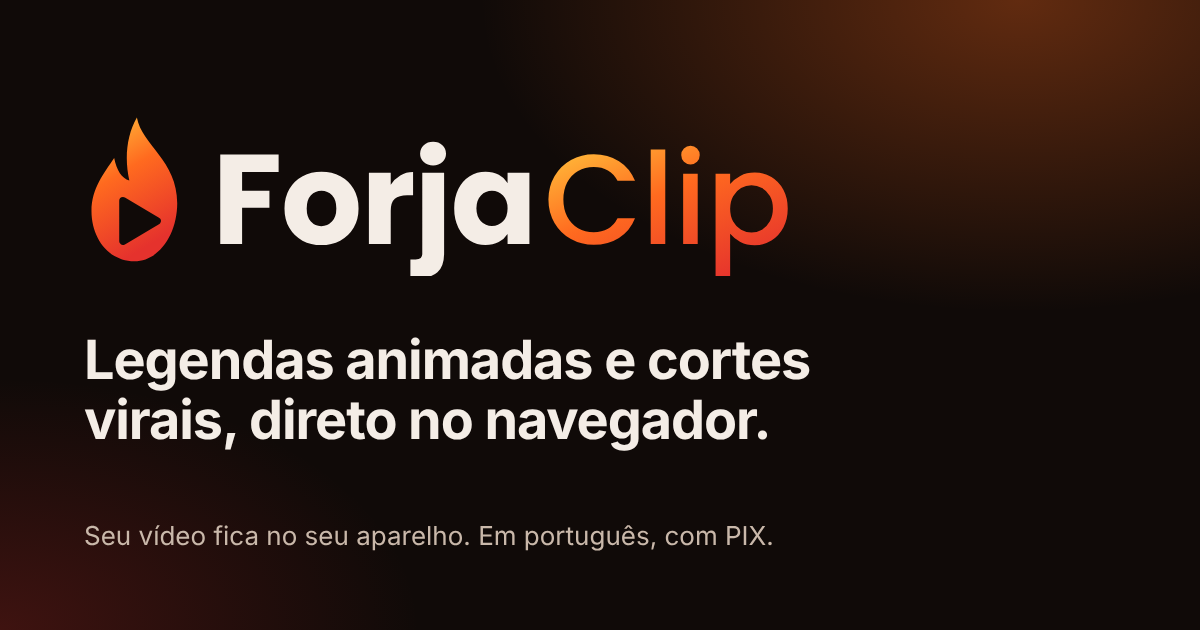
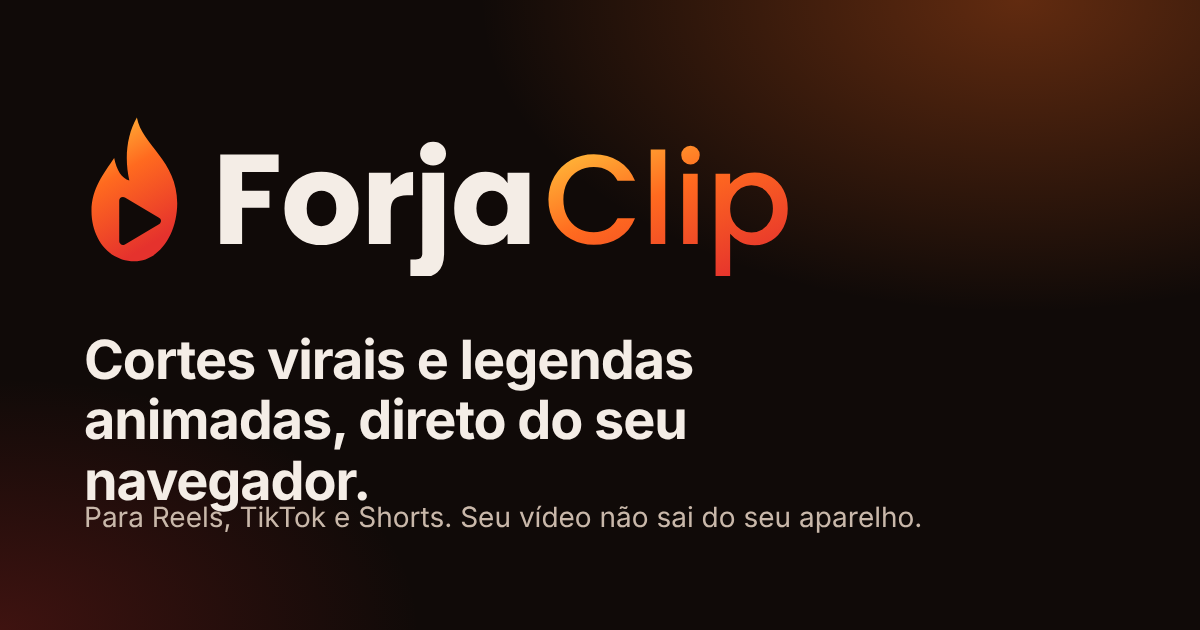
Copy: nova chamada principal e imagem de compartilhamento sem a linha de PIX
Claude-Session: https://claude.ai/code/session_01HcoWimMTnP3ArgryEL197H

Changed region(s): [[0.0617, 0.5429, 0.7708, 0.8746]]

diff --git a/index.html b/index.html
@@ -7,20 +7,20 @@
 <meta name="apple-mobile-web-app-capable" content="yes"><meta name="mobile-web-app-capable" content="yes">
 <meta name="apple-mobile-web-app-title" content="ForjaClip"><meta name="application-name" content="ForjaClip">
 <link rel="manifest" href="manifest.webmanifest"><link rel="apple-touch-icon" href="apple-touch-icon.png"><link rel="icon" href="favicon.svg" type="image/svg+xml"><link rel="icon" href="icon-192.png" type="image/png" sizes="192x192">
-<title>ForjaClip · legendas animadas e cortes para vídeos curtos</title>
-<meta name="description" content="Gere legendas animadas, cortes virais, zoom automático e remoção de silêncio para Reels, TikTok e Shorts. Tudo no navegador, sem instalar nada, com plano gratuito.">
+<title>ForjaClip · Cortes virais e legendas animadas direto do navegador</title>
+<meta name="description" content="Transforme vídeos longos em cortes virais com legendas animadas, zoom automático e remoção de silêncio para Reels, TikTok e Shorts. Direto do navegador, sem instalar nada, e o vídeo não sai do seu aparelho.">
 <meta name="keywords" content="legendas automáticas, cortes de vídeo, vídeos curtos, reels, tiktok, shorts, remover silêncio, legenda animada, editor de vídeo online">
 <meta name="robots" content="index,follow,max-image-preview:large"><meta name="author" content="ForjaClip">
 <link rel="canonical" href="https://devimartins.github.io/tacet/">
 <meta property="og:type" content="website"><meta property="og:site_name" content="ForjaClip"><meta property="og:locale" content="pt_BR"><meta property="og:url" content="https://devimartins.github.io/tacet/">
-<meta property="og:title" content="ForjaClip · legendas animadas e cortes para vídeos curtos">
-<meta property="og:description" content="Legendas que prendem, cortes que circulam. Edite vídeos curtos direto no navegador, com seu vídeo sempre no seu aparelho.">
-<meta property="og:image" content="https://devimartins.github.io/tacet/og-image.png"><meta property="og:image:width" content="1200"><meta property="og:image:height" content="630"><meta property="og:image:alt" content="ForjaClip: legendas animadas e cortes para vídeos curtos">
-<meta name="twitter:card" content="summary_large_image"><meta name="twitter:title" content="ForjaClip · legendas animadas e cortes para vídeos curtos"><meta name="twitter:description" content="Legendas animadas, cortes com IA, zoom e remoção de silêncio, tudo no navegador."><meta name="twitter:image" content="https://devimartins.github.io/tacet/og-image.png">
+<meta property="og:title" content="ForjaClip · Cortes virais e legendas animadas direto do navegador">
+<meta property="og:description" content="Cortes virais e legendas animadas para Reels, TikTok e Shorts. Direto do navegador, com seu vídeo sempre no seu aparelho.">
+<meta property="og:image" content="https://devimartins.github.io/tacet/og-image.png"><meta property="og:image:width" content="1200"><meta property="og:image:height" content="630"><meta property="og:image:alt" content="ForjaClip: cortes virais e legendas animadas direto do navegador">
+<meta name="twitter:card" content="summary_large_image"><meta name="twitter:title" content="ForjaClip · Cortes virais e legendas animadas direto do navegador"><meta name="twitter:description" content="Cortes virais e legendas animadas para Reels, TikTok e Shorts, direto do navegador."><meta name="twitter:image" content="https://devimartins.github.io/tacet/og-image.png">
 <script type="application/ld+json">{"@context":"https://schema.org","@type":"WebApplication","name":"ForjaClip","url":"https://devimartins.github.io/tacet/","applicationCategory":"MultimediaApplication","operatingSystem":"Android, iOS, Windows, macOS, Linux (navegador)","inLanguage":"pt-BR","description":"Editor de vídeos curtos no navegador: legendas animadas, cortes com IA, zoom automático e remoção de silêncio.","offers":[{"@type":"Offer","name":"Gratuito","price":"0","priceCurrency":"BRL"},{"@type":"Offer","name":"Pro","price":"19.90","priceCurrency":"BRL","description":"R$ 19,90 por mês nos 3 primeiros meses, depois R$ 29,90"}]}</script>
 <link rel="preconnect" href="https://fonts.googleapis.com"><link rel="preconnect" href="https://fonts.gstatic.com" crossorigin>
 <link rel="preload" as="style" href="https://fonts.googleapis.com/css2?family=Geist:wght@300;400;500;600&display=swap" onload="this.rel='stylesheet'"><noscript><link rel="stylesheet" href="https://fonts.googleapis.com/css2?family=Geist:wght@300;400;500;600&display=swap"></noscript>
-<link rel="modulepreload" href="js/app.js?v=29"><link rel="modulepreload" href="js/render.js"><link rel="modulepreload" href="js/captions.js">
+<link rel="modulepreload" href="js/app.js?v=30"><link rel="modulepreload" href="js/render.js"><link rel="modulepreload" href="js/captions.js">
 <style>
 :root{--bg:#0f0a08;--s1:#17100d;--in:#1f1612;--bd:#2e211b;--tx:#f4ede6;--mut:#a89a8e;--ac:#ff7a3d;--acd:#c2410c;--pri:#f4ede6;--pro:#0f0a08;--er:#ff8a80;--rail:#0a0605;--railtx:#f4ede6;--glow:rgba(255,122,61,.12);--stg:#070403;
  --safe-t:env(safe-area-inset-top,0px);--safe-b:env(safe-area-inset-bottom,0px);--safe-l:env(safe-area-inset-left,0px);--safe-r:env(safe-area-inset-right,0px);color-scheme:dark}
@@ -243,7 +243,7 @@ body:has(#edit:not([hidden])) #botp{right:auto;left:84px}
 </nav>
 <main>
 <section id="login" hidden>
- <h1 class="brand"><svg xmlns="http://www.w3.org/2000/svg" viewBox="0 0 223.6 52" width="223.6" height="52" class="wm" role="img" aria-label="ForjaClip"><defs><linearGradient id="gl" x1="0" y1="0" x2="0.35" y2="1"><stop offset="0" stop-color="#FFC53D"/><stop offset=".45" stop-color="#FF6A1F"/><stop offset="1" stop-color="#E5322D"/></linearGradient><linearGradient id="glt" x1="0" y1="0" x2="0.8" y2="1"><stop offset="0" stop-color="#FFC53D"/><stop offset=".45" stop-color="#FF6A1F"/><stop offset="1" stop-color="#E5322D"/></linearGradient></defs><g transform="translate(-9.850000000000001,0) scale(0.79)"><mask id="ml" maskUnits="userSpaceOnUse" x="0" y="0" width="64" height="64"><rect width="64" height="64" fill="#fff"/><path d="M27.5 36L41 44L27.5 52Z" fill="#000" stroke="#000" stroke-width="3" stroke-linejoin="round"/></mask><path d="M33 3C35 14 49 20 49 37C49 49 42 60 32 60C22 60 15 51 15 40C15 31 20 25 24 19C25 24 27 27 30 28C28 19 29 10 33 3Z" fill="url(#gl)" mask="url(#ml)"/></g><path transform="translate(39.86,42)" d="M20.76 -28.080000000000002V-22.6H9.32V-16.68H17.88V-11.36H9.32V0.0H2.48V-28.080000000000002Z M22.6 -11.16Q22.6 -14.6 24.12 -17.22Q25.64 -19.84 28.28 -21.240000000000002Q30.92 -22.64 34.2 -22.64Q37.480000000000004 -22.64 40.120000000000005 -21.240000000000002Q42.760000000000005 -19.84 44.28 -17.22Q45.8 -14.6 45.8 -11.16Q45.8 -7.72 44.26 -5.1Q42.72 -2.48 40.06 -1.08Q37.4 0.32 34.120000000000005 0.32Q30.84 0.32 28.22 -1.08Q25.6 -2.48 24.1 -5.08Q22.6 -7.68 22.6 -11.16ZM38.84 -11.16Q38.84 -13.84 37.5 -15.28Q36.16 -16.72 34.2 -16.72Q32.2 -16.72 30.880000000000003 -15.3Q29.560000000000002 -13.88 29.560000000000002 -11.16Q29.560000000000002 -8.48 30.86 -7.040000000000001Q32.16 -5.6000000000000005 34.120000000000005 -5.6000000000000005Q36.08 -5.6000000000000005 37.46 -7.040000000000001Q38.84 -8.48 38.84 -11.16Z M62.88 -22.56V-15.32H61.0Q58.440000000000005 -15.32 57.160000000000004 -14.22Q55.88 -13.120000000000001 55.88 -10.36V0.0H49.04V-22.32H55.88V-18.6Q57.08 -20.44 58.88 -21.5Q60.68000000000001 -22.56 62.88 -22.56Z M65.08 -28.32Q65.08 -29.92 66.22 -30.98Q67.36 -32.04 69.16 -32.04Q70.92 -32.04 72.06 -30.98Q73.2 -29.92 73.2 -28.32Q73.2 -26.76 72.06 -25.700000000000003Q70.92 -24.64 69.16 -24.64Q67.36 -24.64 66.22 -25.700000000000003Q65.08 -26.76 65.08 -28.32ZM72.6 2.88Q72.6 7.0 70.52 8.82Q68.44 10.64 64.72 10.64H62.04V4.84H63.68Q64.8 4.84 65.28 4.4Q65.76 3.96 65.76 2.96V-22.32H72.6Z M85.6 -22.64Q87.96000000000001 -22.64 89.74000000000001 -21.68Q91.52 -20.72 92.48 -19.16V-22.32H99.32V0.0H92.48V-3.16Q91.48 -1.6 89.7 -0.64Q87.92 0.32 85.56 0.32Q82.84 0.32 80.6 -1.1Q78.36 -2.52 77.06 -5.14Q75.76 -7.76 75.76 -11.200000000000001Q75.76 -14.64 77.06 -17.240000000000002Q78.36 -19.84 80.6 -21.240000000000002Q82.84 -22.64 85.6 -22.64ZM87.6 -16.68Q85.56 -16.68 84.14 -15.219999999999999Q82.72 -13.76 82.72 -11.200000000000001Q82.72 -8.64 84.14 -7.140000000000001Q85.56 -5.64 87.6 -5.64Q89.64 -5.64 91.06 -7.119999999999999Q92.48 -8.6 92.48 -11.16Q92.48 -13.72 91.06 -15.2Q89.64 -16.68 87.6 -16.68Z" fill="currentColor"/><path transform="translate(143.66000000000003,42)" d="M15.68 -28.16Q20.12 -28.16 23.58 -25.98Q27.04 -23.8 28.6 -19.8H23.12Q22.04 -22.0 20.119999999999997 -23.08Q18.2 -24.16 15.68 -24.16Q12.92 -24.16 10.76 -22.92Q8.6 -21.68 7.38 -19.36Q6.16 -17.04 6.16 -13.96Q6.16 -10.88 7.38 -8.56Q8.6 -6.24 10.76 -4.98Q12.92 -3.72 15.68 -3.72Q18.2 -3.72 20.119999999999997 -4.8Q22.04 -5.88 23.12 -8.08H28.6Q27.04 -4.08 23.58 -1.92Q20.12 0.24 15.68 0.24Q11.76 0.24 8.52 -1.58Q5.28 -3.4 3.38 -6.640000000000001Q1.48 -9.88 1.48 -13.96Q1.48 -18.04 3.38 -21.28Q5.28 -24.52 8.540000000000001 -26.34Q11.8 -28.16 15.68 -28.16Z M38.080000000000005 -29.6V0.0H33.52V-29.6Z M43.080000000000005 -27.88Q43.080000000000005 -29.12 43.92 -29.96Q44.760000000000005 -30.8 46.00000000000001 -30.8Q47.20000000000001 -30.8 48.040000000000006 -29.96Q48.88000000000001 -29.12 48.88000000000001 -27.88Q48.88000000000001 -26.64 48.040000000000006 -25.8Q47.20000000000001 -24.96 46.00000000000001 -24.96Q44.760000000000005 -24.96 43.92 -25.8Q43.080000000000005 -26.64 43.080000000000005 -27.88ZM48.24000000000001 -22.04V0.0H43.68000000000001V-22.04Z M66.08 -22.400000000000002Q68.96000000000001 -22.400000000000002 71.34 -20.98Q73.72 -19.56 75.08 -17.0Q76.44 -14.44 76.44 -11.120000000000001Q76.44 -7.8 75.08 -5.18Q73.72 -2.56 71.34 -1.1Q68.96000000000001 0.36 66.08 0.36Q63.56 0.36 61.6 -0.6599999999999999Q59.64 -1.68 58.400000000000006 -3.2V10.48H53.84V-22.04H58.400000000000006V-18.8Q59.56 -20.32 61.56 -21.36Q63.56 -22.400000000000002 66.08 -22.400000000000002ZM65.08 -18.44Q63.36 -18.44 61.82 -17.560000000000002Q60.28 -16.68 59.34 -15.0Q58.400000000000006 -13.32 58.400000000000006 -11.040000000000001Q58.400000000000006 -8.76 59.34 -7.0600000000000005Q60.28 -5.36 61.82 -4.48Q63.36 -3.6 65.08 -3.6Q66.84 -3.6 68.38 -4.5Q69.92 -5.4 70.86000000000001 -7.12Q71.80000000000001 -8.84 71.80000000000001 -11.120000000000001Q71.80000000000001 -13.4 70.86000000000001 -15.059999999999999Q69.92 -16.72 68.38 -17.58Q66.84 -18.44 65.08 -18.44Z" fill="url(#glt)"/></svg></h1><p class="mut" style="font-size:16px">Legendas animadas e cortes para vídeos curtos, direto no navegador.</p>
+ <h1 class="brand"><svg xmlns="http://www.w3.org/2000/svg" viewBox="0 0 223.6 52" width="223.6" height="52" class="wm" role="img" aria-label="ForjaClip"><defs><linearGradient id="gl" x1="0" y1="0" x2="0.35" y2="1"><stop offset="0" stop-color="#FFC53D"/><stop offset=".45" stop-color="#FF6A1F"/><stop offset="1" stop-color="#E5322D"/></linearGradient><linearGradient id="glt" x1="0" y1="0" x2="0.8" y2="1"><stop offset="0" stop-color="#FFC53D"/><stop offset=".45" stop-color="#FF6A1F"/><stop offset="1" stop-color="#E5322D"/></linearGradient></defs><g transform="translate(-9.850000000000001,0) scale(0.79)"><mask id="ml" maskUnits="userSpaceOnUse" x="0" y="0" width="64" height="64"><rect width="64" height="64" fill="#fff"/><path d="M27.5 36L41 44L27.5 52Z" fill="#000" stroke="#000" stroke-width="3" stroke-linejoin="round"/></mask><path d="M33 3C35 14 49 20 49 37C49 49 42 60 32 60C22 60 15 51 15 40C15 31 20 25 24 19C25 24 27 27 30 28C28 19 29 10 33 3Z" fill="url(#gl)" mask="url(#ml)"/></g><path transform="translate(39.86,42)" d="M20.76 -28.080000000000002V-22.6H9.32V-16.68H17.88V-11.36H9.32V0.0H2.48V-28.080000000000002Z M22.6 -11.16Q22.6 -14.6 24.12 -17.22Q25.64 -19.84 28.28 -21.240000000000002Q30.92 -22.64 34.2 -22.64Q37.480000000000004 -22.64 40.120000000000005 -21.240000000000002Q42.760000000000005 -19.84 44.28 -17.22Q45.8 -14.6 45.8 -11.16Q45.8 -7.72 44.26 -5.1Q42.72 -2.48 40.06 -1.08Q37.4 0.32 34.120000000000005 0.32Q30.84 0.32 28.22 -1.08Q25.6 -2.48 24.1 -5.08Q22.6 -7.68 22.6 -11.16ZM38.84 -11.16Q38.84 -13.84 37.5 -15.28Q36.16 -16.72 34.2 -16.72Q32.2 -16.72 30.880000000000003 -15.3Q29.560000000000002 -13.88 29.560000000000002 -11.16Q29.560000000000002 -8.48 30.86 -7.040000000000001Q32.16 -5.6000000000000005 34.120000000000005 -5.6000000000000005Q36.08 -5.6000000000000005 37.46 -7.040000000000001Q38.84 -8.48 38.84 -11.16Z M62.88 -22.56V-15.32H61.0Q58.440000000000005 -15.32 57.160000000000004 -14.22Q55.88 -13.120000000000001 55.88 -10.36V0.0H49.04V-22.32H55.88V-18.6Q57.08 -20.44 58.88 -21.5Q60.68000000000001 -22.56 62.88 -22.56Z M65.08 -28.32Q65.08 -29.92 66.22 -30.98Q67.36 -32.04 69.16 -32.04Q70.92 -32.04 72.06 -30.98Q73.2 -29.92 73.2 -28.32Q73.2 -26.76 72.06 -25.700000000000003Q70.92 -24.64 69.16 -24.64Q67.36 -24.64 66.22 -25.700000000000003Q65.08 -26.76 65.08 -28.32ZM72.6 2.88Q72.6 7.0 70.52 8.82Q68.44 10.64 64.72 10.64H62.04V4.84H63.68Q64.8 4.84 65.28 4.4Q65.76 3.96 65.76 2.96V-22.32H72.6Z M85.6 -22.64Q87.96000000000001 -22.64 89.74000000000001 -21.68Q91.52 -20.72 92.48 -19.16V-22.32H99.32V0.0H92.48V-3.16Q91.48 -1.6 89.7 -0.64Q87.92 0.32 85.56 0.32Q82.84 0.32 80.6 -1.1Q78.36 -2.52 77.06 -5.14Q75.76 -7.76 75.76 -11.200000000000001Q75.76 -14.64 77.06 -17.240000000000002Q78.36 -19.84 80.6 -21.240000000000002Q82.84 -22.64 85.6 -22.64ZM87.6 -16.68Q85.56 -16.68 84.14 -15.219999999999999Q82.72 -13.76 82.72 -11.200000000000001Q82.72 -8.64 84.14 -7.140000000000001Q85.56 -5.64 87.6 -5.64Q89.64 -5.64 91.06 -7.119999999999999Q92.48 -8.6 92.48 -11.16Q92.48 -13.72 91.06 -15.2Q89.64 -16.68 87.6 -16.68Z" fill="currentColor"/><path transform="translate(143.66000000000003,42)" d="M15.68 -28.16Q20.12 -28.16 23.58 -25.98Q27.04 -23.8 28.6 -19.8H23.12Q22.04 -22.0 20.119999999999997 -23.08Q18.2 -24.16 15.68 -24.16Q12.92 -24.16 10.76 -22.92Q8.6 -21.68 7.38 -19.36Q6.16 -17.04 6.16 -13.96Q6.16 -10.88 7.38 -8.56Q8.6 -6.24 10.76 -4.98Q12.92 -3.72 15.68 -3.72Q18.2 -3.72 20.119999999999997 -4.8Q22.04 -5.88 23.12 -8.08H28.6Q27.04 -4.08 23.58 -1.92Q20.12 0.24 15.68 0.24Q11.76 0.24 8.52 -1.58Q5.28 -3.4 3.38 -6.640000000000001Q1.48 -9.88 1.48 -13.96Q1.48 -18.04 3.38 -21.28Q5.28 -24.52 8.540000000000001 -26.34Q11.8 -28.16 15.68 -28.16Z M38.080000000000005 -29.6V0.0H33.52V-29.6Z M43.080000000000005 -27.88Q43.080000000000005 -29.12 43.92 -29.96Q44.760000000000005 -30.8 46.00000000000001 -30.8Q47.20000000000001 -30.8 48.040000000000006 -29.96Q48.88000000000001 -29.12 48.88000000000001 -27.88Q48.88000000000001 -26.64 48.040000000000006 -25.8Q47.20000000000001 -24.96 46.00000000000001 -24.96Q44.760000000000005 -24.96 43.92 -25.8Q43.080000000000005 -26.64 43.080000000000005 -27.88ZM48.24000000000001 -22.04V0.0H43.68000000000001V-22.04Z M66.08 -22.400000000000002Q68.96000000000001 -22.400000000000002 71.34 -20.98Q73.72 -19.56 75.08 -17.0Q76.44 -14.44 76.44 -11.120000000000001Q76.44 -7.8 75.08 -5.18Q73.72 -2.56 71.34 -1.1Q68.96000000000001 0.36 66.08 0.36Q63.56 0.36 61.6 -0.6599999999999999Q59.64 -1.68 58.400000000000006 -3.2V10.48H53.84V-22.04H58.400000000000006V-18.8Q59.56 -20.32 61.56 -21.36Q63.56 -22.400000000000002 66.08 -22.400000000000002ZM65.08 -18.44Q63.36 -18.44 61.82 -17.560000000000002Q60.28 -16.68 59.34 -15.0Q58.400000000000006 -13.32 58.400000000000006 -11.040000000000001Q58.400000000000006 -8.76 59.34 -7.0600000000000005Q60.28 -5.36 61.82 -4.48Q63.36 -3.6 65.08 -3.6Q66.84 -3.6 68.38 -4.5Q69.92 -5.4 70.86000000000001 -7.12Q71.80000000000001 -8.84 71.80000000000001 -11.120000000000001Q71.80000000000001 -13.4 70.86000000000001 -15.059999999999999Q69.92 -16.72 68.38 -17.58Q66.84 -18.44 65.08 -18.44Z" fill="url(#glt)"/></svg></h1><p class="mut" style="font-size:16px">Cortes virais e legendas animadas, direto do seu navegador.</p>
  <div class="prov" id="prov"></div><p id="lmsg" class="warn" role="status"></p>
  <p class="mut" style="font-size:12px">Ao entrar, você concorda em usar o serviço de forma legal e com vídeos que pode publicar.</p>
 </section>
@@ -323,5 +323,5 @@ body:has(#edit:not([hidden])) #botp{right:auto;left:84px}
 <dialog id="pay"><h2 style="margin-top:0">Recurso do plano pago</h2><p class="mut">Este recurso faz parte do plano pago, que está em desenvolvimento. Os pagamentos serão por PIX, cartão de débito e crédito.</p><form method="dialog"><button class="btn pri">Entendi</button></form></dialog>
 <div id="flash" role="status" hidden></div>
 <script defer src="config.js"></script><script defer src="vendor/mp4box.all.min.js"></script><script defer src="vendor/mp4-muxer.js"></script><script defer src="vendor/supabase.js"></script>
-<script type="module" src="js/app.js?v=29"></script>
+<script type="module" src="js/app.js?v=30"></script>
 </body></html>

diff --git a/brand/build.py b/brand/build.py
@@ -78,8 +78,8 @@ def icon_html(size, bg, scale, radius=0):
             f'<g transform="translate({pad},{pad + size*0.01}) scale({size*scale/64})">{mark_inner("g","m")}</g></svg></body></html>')
 OG = lambda body_logo, lw: f'''<html><body style="margin:0;width:1200px;height:630px;background:radial-gradient(900px 520px at 85% 0%,rgba(255,106,31,.34),transparent 60%),radial-gradient(700px 420px at 0% 100%,rgba(229,50,45,.22),transparent 60%),#100A08;font-family:Inter,Poppins,sans-serif;color:#F4EDE6;position:relative;overflow:hidden">
 <div style="position:absolute;left:84px;top:110px">{body_logo}</div>
-<div style="position:absolute;left:84px;top:330px;width:760px;font-size:54px;line-height:1.12;font-weight:700;letter-spacing:-.02em">Legendas animadas e cortes virais, direto no navegador.</div>
-<div style="position:absolute;left:84px;top:520px;font-size:26px;color:#C9B8AA">Seu vídeo fica no seu aparelho. Em português, com PIX.</div></body></html>'''
+<div style="position:absolute;left:84px;top:330px;width:760px;font-size:54px;line-height:1.12;font-weight:700;letter-spacing:-.02em">Cortes virais e legendas animadas, direto do seu navegador.</div>
+<div style="position:absolute;left:84px;top:500px;font-size:28px;color:#C9B8AA">Para Reels, TikTok e Shorts. Seu vídeo não sai do seu aparelho.</div></body></html>'''
 with sync_playwright() as p:
     b = p.chromium.launch(executable_path='/opt/pw-browsers/chromium'); pg = b.new_page()
     def shot(html, path, w, h, omit=False):
